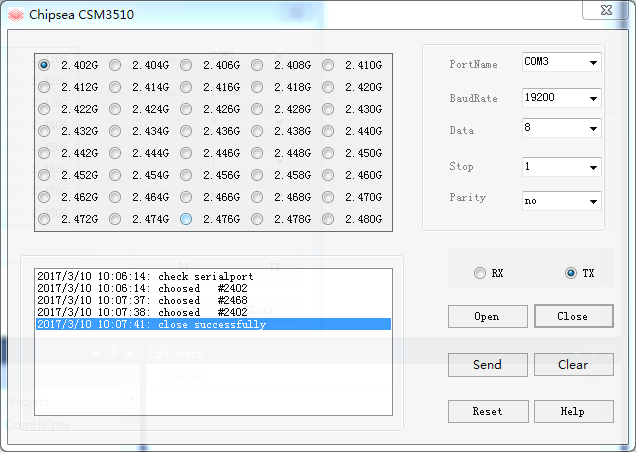
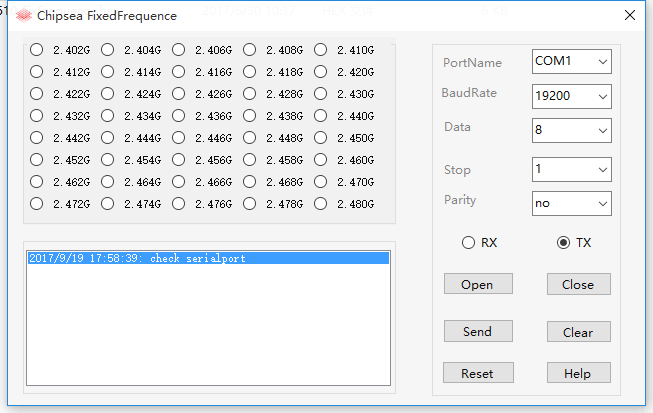
修改文档

diff --git a/_posts/2017-09-15-CSM3510定频测试.md b/_posts/2017-09-15-CSM3510定频测试.md
@@ -6,7 +6,6 @@ tags: [news, csm3510,bluetooth]
 summary: CSM3510上位机进行定频测试指导
 ---
 
-# CSM3510定频测试
 {% include toc.html %}
 
 # 1. 说明
@@ -15,7 +14,7 @@ summary: CSM3510上位机进行定频测试指导
 
 # 2. 上位机
 
-使用上位机软件为 `Chipsea Helper V1.3.exe` ,软件界面如下（Com 口以实际端口为准）：
+使用上位机软件为 `ChipseaFixedFrequency V1.5.exe` ,软件界面如下（COM 口以实际端口为准）：
 
  ![上位机软件主界面](picture/csm3510/上位机软件主界面.png)
 
@@ -25,7 +24,7 @@ summary: CSM3510上位机进行定频测试指导
 下位机默认串口为：`BuadRate = 19200`, `Data = 8`, `Stop = 1`, `Parity = no`.
  ![上位机软件主界面](picture/csm3510/下位机示意图.jpg)
 
-# 4.操作步骤
+# 4. 操作步骤
 
  - 如上正确配置好`SerialPort`
  - 点击`Open`,如果正确配置会显示
@@ -36,7 +35,7 @@ summary: CSM3510上位机进行定频测试指导
     connecting...
     connected #COMX
 ```
-点击`Send`,成功则显示（#x，其中0<x <39，实际上就是代表通道索引值）
+点击`Send`,成功则显示（`#x`，其中`0 < x <39`，实际上就是代表通道索引值）
 
 ```
     send    #0
